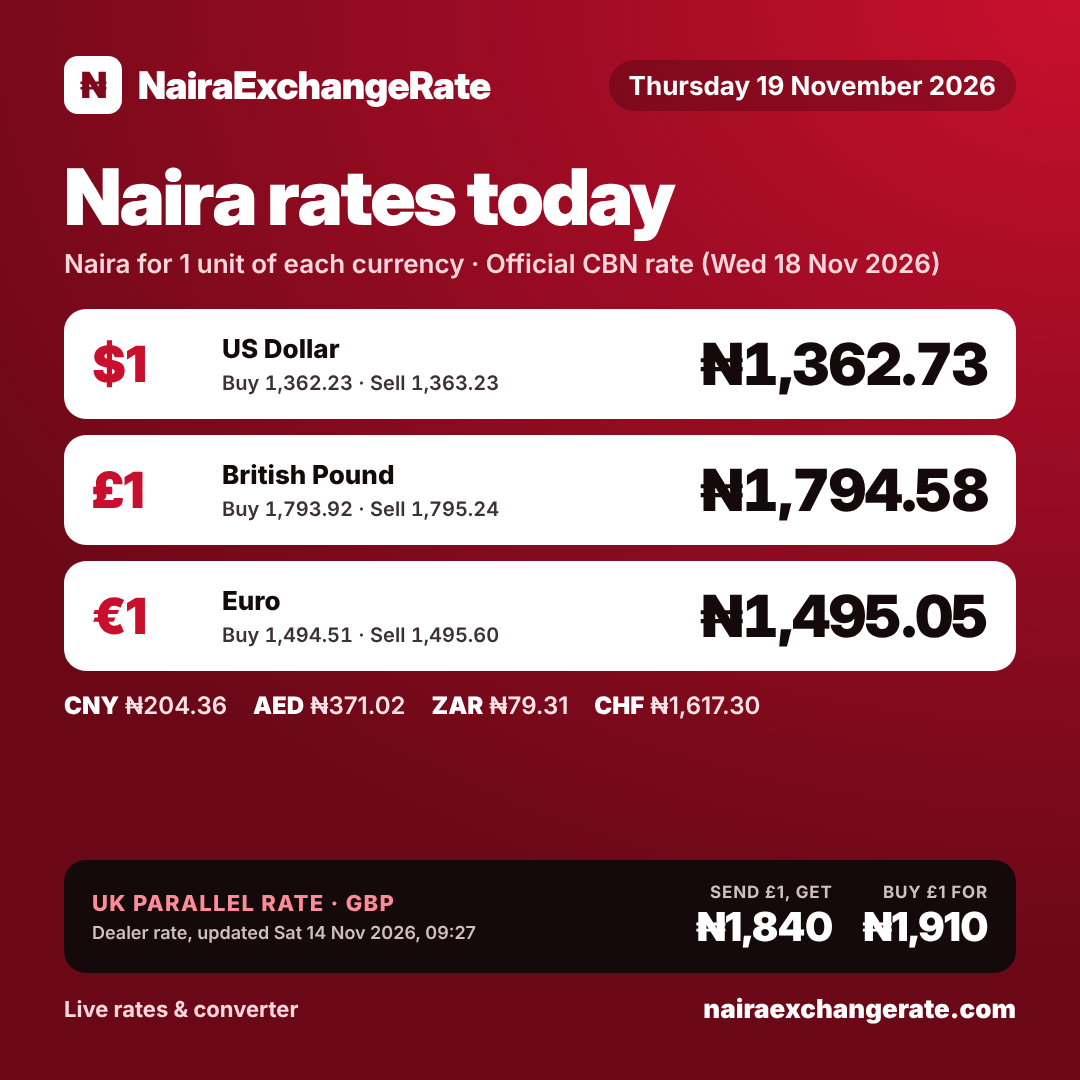
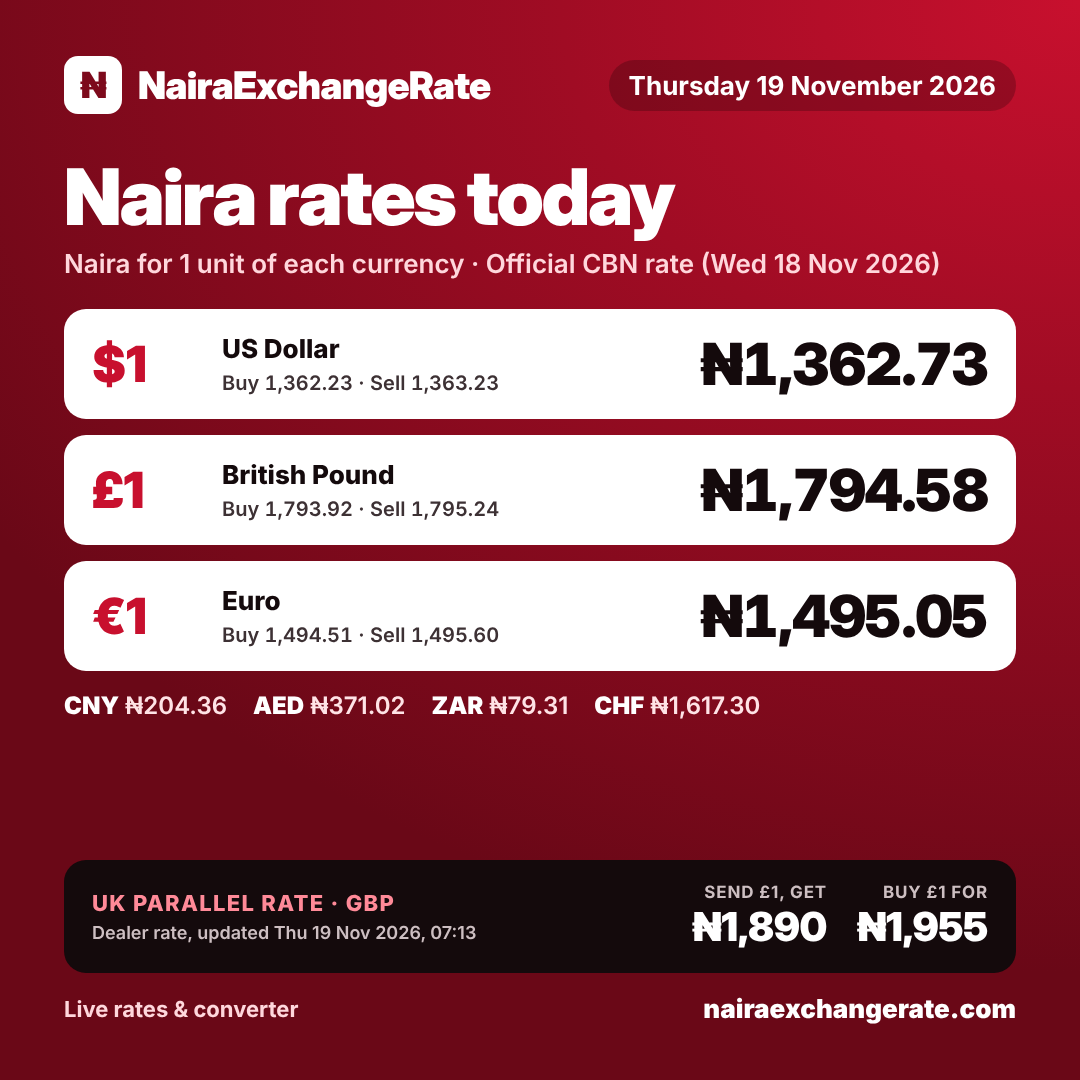
Update UK parallel rate 2026-11-19
Claude-Session: https://claude.ai/code/session_01NfXuJtCS8Dx6oFKbDzFyGc

Changed region(s): [[0.6417, 0.7944, 0.7639, 0.8861], [0.7944, 0.825, 0.9167, 0.8861], [0.2444, 0.8556, 0.4278, 0.8861]]

diff --git a/index.html b/index.html
@@ -255,9 +255,9 @@ footer .wrap{padding-block:22px 34px;font-size:.84rem;color:var(--muted);display
   },
   "parallel": {
     "label": "UK dealer rate",
-    "send": 1840.0,
-    "buy": 1910.0,
-    "updated": "2026-11-14T09:27",
+    "send": 1890.0,
+    "buy": 1955.0,
+    "updated": "2026-11-19T07:13",
     "history": [
       {
         "date": "2026-10-31",
@@ -298,6 +298,11 @@ footer .wrap{padding-block:22px 34px;font-size:.84rem;color:var(--muted);display
         "date": "2026-11-14",
         "send": 1840.0,
         "buy": 1910.0
+      },
+      {
+        "date": "2026-11-19",
+        "send": 1890.0,
+        "buy": 1955.0
       }
     ]
   },
